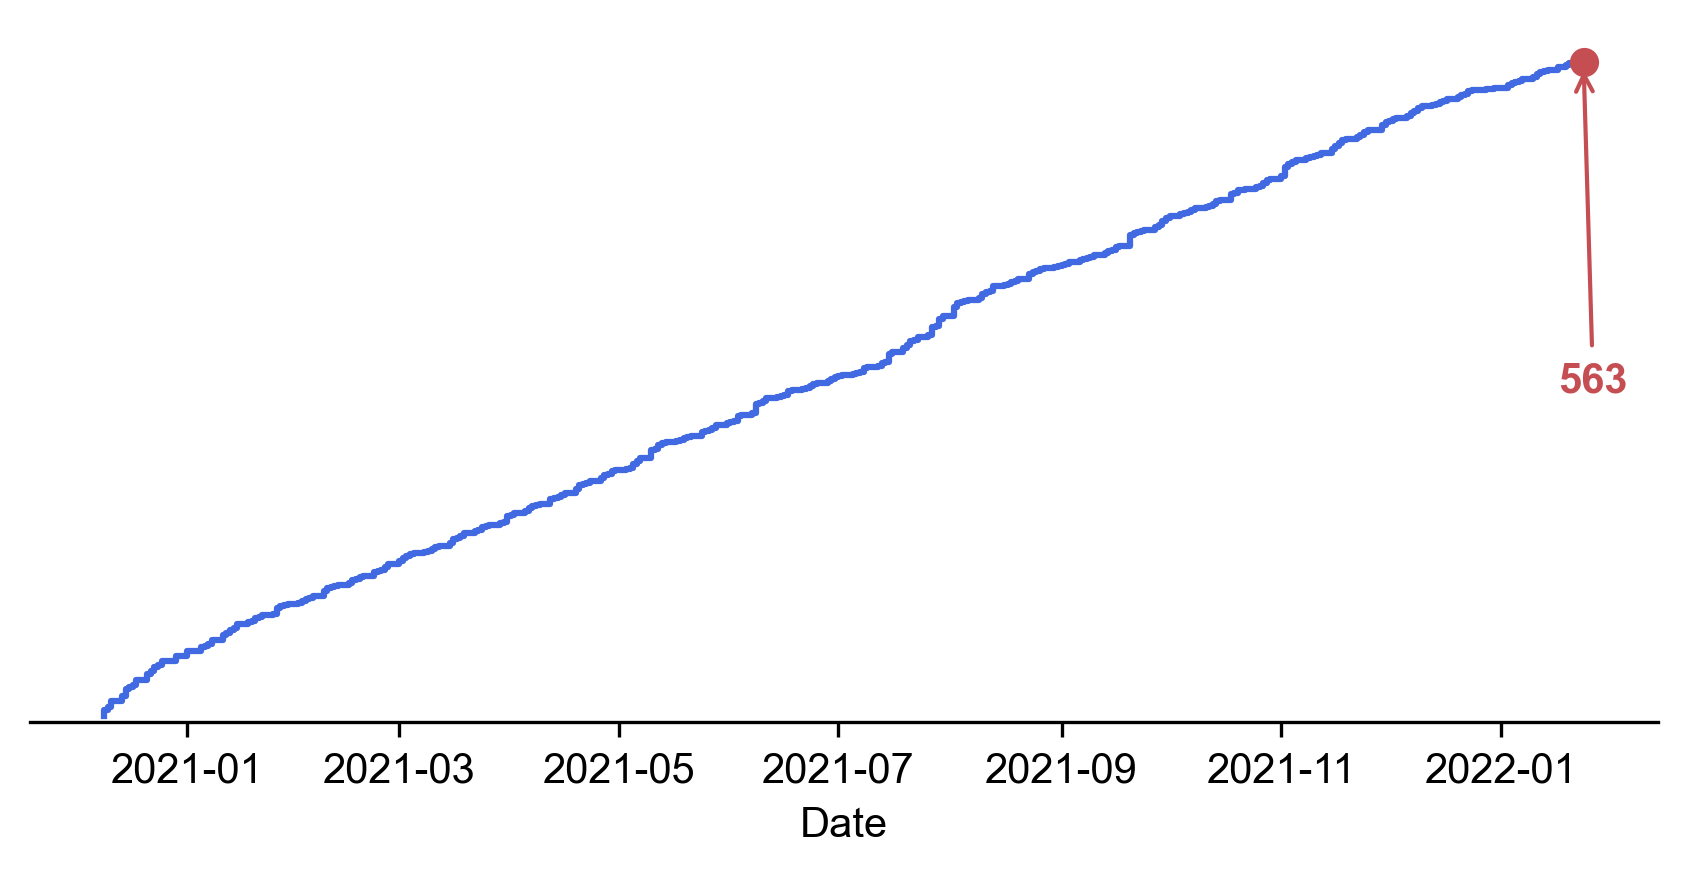
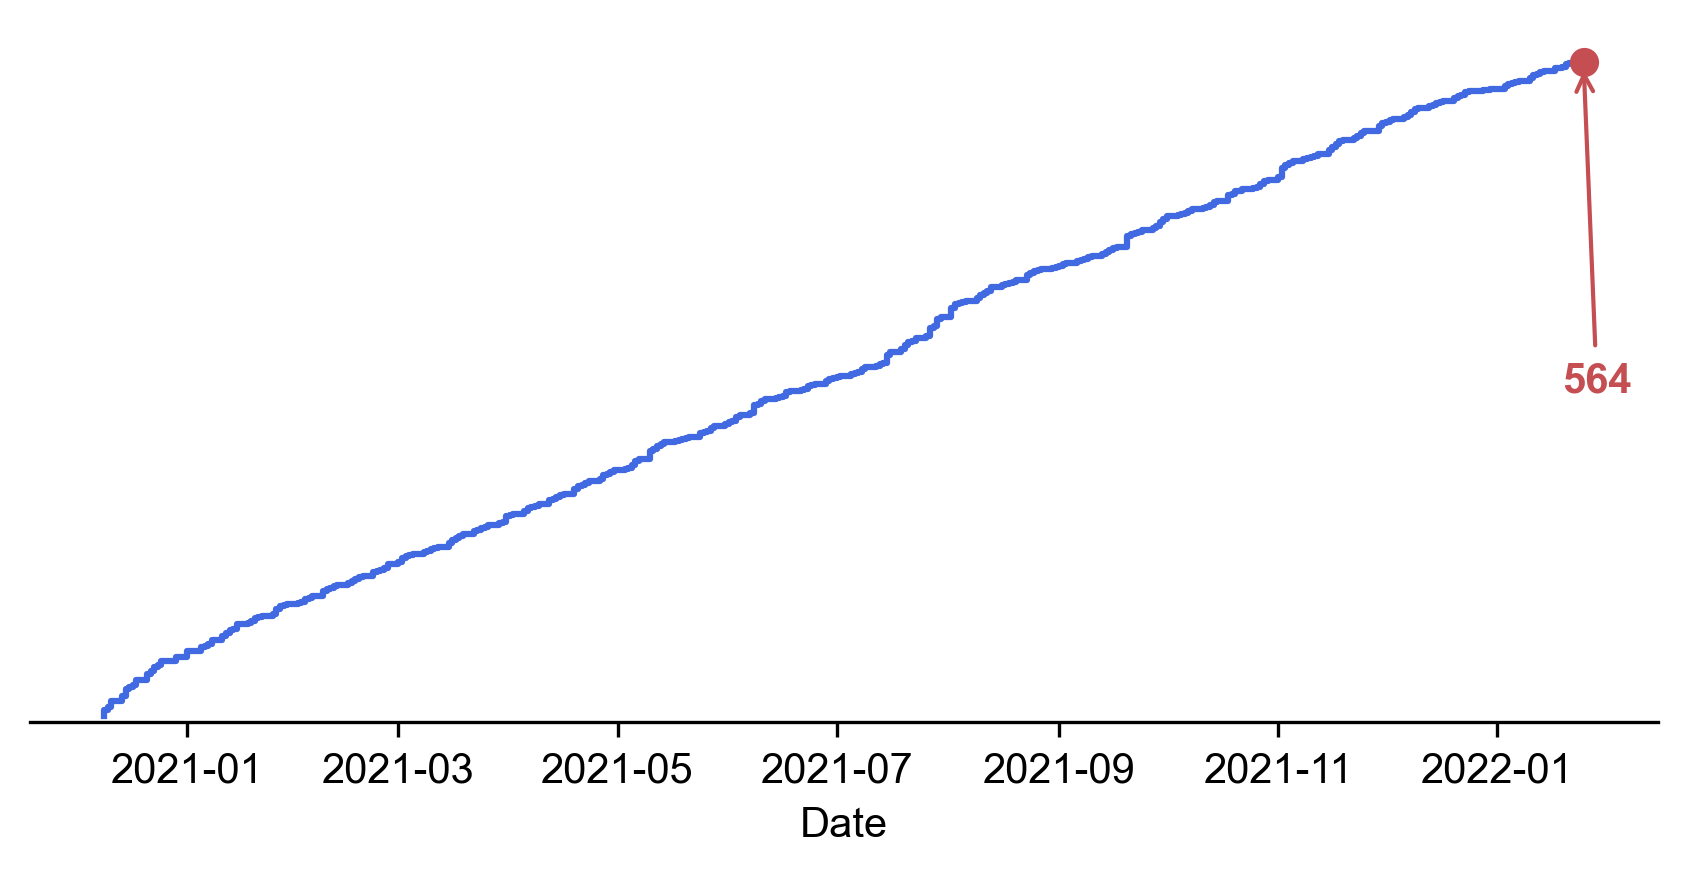
2022-01-25

diff --git a/2022/01/AstroPH-2022-01.md b/2022/01/AstroPH-2022-01.md
@@ -213,3 +213,13 @@
 
 ## 2022-01-25
 
+1. [A Comprehensive Study of the Spectral Variation and the Brightness Profile of Young Pulsar Wind Nebulae](https://arxiv.org/abs/2201.09403)
+
+   > High Energy, Pulsar, Nebulae
+
+   研究年轻脉冲星风星云`PWNe`的粒子扩散传输，用包含光子指数$\Gamma$和表面亮度$\Sigma$的径向截面的纯扩散模型拟合星云截面，这一模型曾在`Crab`、`3C58`和`G21.5-0.9`上测试过。除了扩散引起的光谱软化，还计算了同步辐射功率，并建立了表面亮度曲线。大多数的`PWNe`的两个截面都很相似，模型可以很好的描述这两个截面，**表明在`PWNe`中，扩散主导了粒子传输**。另外，扩散参数与脉冲星物理参数之间没有明显的相关性。
+
+   <img src="image-20220125192022528.png" alt="image-20220125192022528" style="zoom:50%;" />
+
+## 2022-01-26
+
